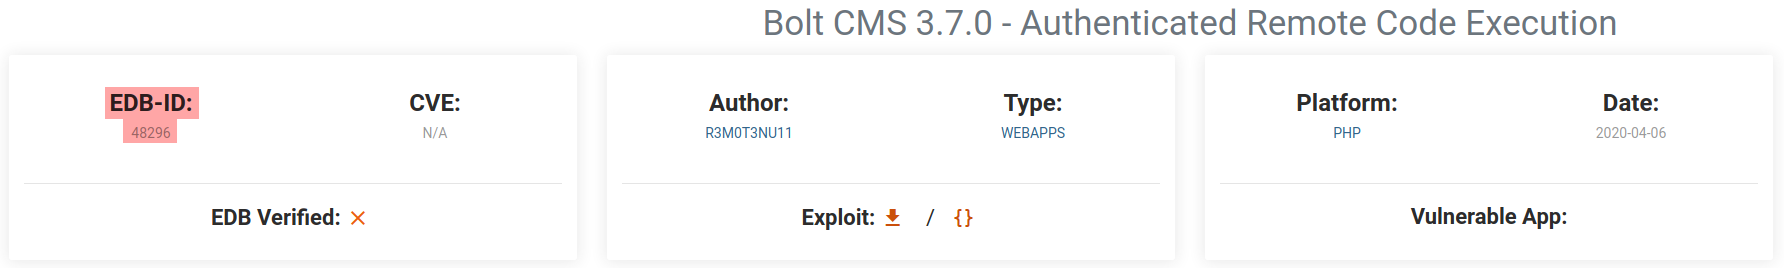
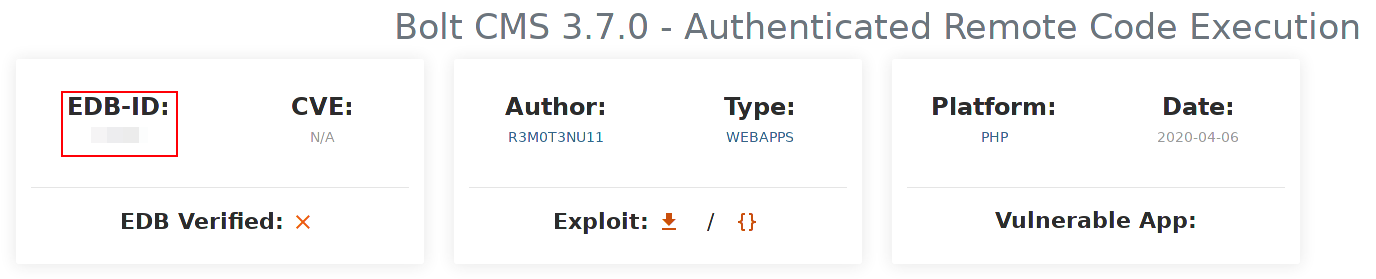
REDUCTE some flags and answers to allow  upload to THM

diff --git a/_posts/2021-01-04-Bolt.md b/_posts/2021-01-04-Bolt.md
@@ -86,15 +86,15 @@ Not shown: 65532 closed ports
 PORT     STATE SERVICE VERSION
 22/tcp   open  ssh     OpenSSH 7.6p1 Ubuntu 4ubuntu0.3 (Ubuntu Linux; protocol 2.0)
 80/tcp   open  http    Apache httpd 2.4.29 ((Ubuntu))
-8000/tcp open  http    (PHP 7.2.32-1)
+[REDUCTED]/tcp open  http    (PHP 7.2.32-1)
 ...
 No exact OS matches for host (If you know what OS is running on it, see https://nmap.org/submit/ ).
 ...
 ```
 
-According nmap, there is a website enabled on port 80 and 8000. We can use Firefox to check both websites on port 80 and 8000:
+According nmap, there is a website enabled on port 80 and [REDUCTED]. We can use Firefox to check both websites on port 80 and [REDUCTED]:
 * The website on port 80 is a default Apache page. nothing to we can use.
-* The website on port 8000 in the other hand seems intresting as it contains some information. At the buttom of the web page we can find this is Bolt CMS (Content Managment System):
+* The website on port [REDUCTED] in the other hand seems intresting as it contains some information. At the buttom of the web page we can find this is Bolt CMS (Content Managment System):
 ![Bolt-built_with](/assets/img/posts/Bolt/Bolt-built_with.png){: .normal}
 
 There are two entries in the homepage. One is a "Message for IT department" where we can find a clear text password and potential username:
@@ -108,8 +108,8 @@ The second one clearly stating the username:
 I'm not familiar with Bolt CMS. Using Google we can find the path for Bolt CMS login page:
 ![cms_login](/assets/img/posts/Bolt/Bolt-cms_login.png){: .normal}
 
-Using the new information we have, we'll change path to the login page http://10.10.255.222:8000/bolt/ and try to login with the credentials we've found.
-**Success**, the combination of *bolt:boltadmin123* (username:password) worked. We now have access to the website admin interface.
+Using the new information we have, we'll change path to the login page http://10.10.255.222:REDUCTED/bolt/ and try to login with the credentials we've found.
+**Success**, the combination of username and password worked. We now have access to the website admin interface.
 
 
 # Privilege Escalation
@@ -125,17 +125,17 @@ We can use metasploit to find that exploit path.
 
 > Before using metasploit, you might need to update it using `apt update; apt install metasploit-framework` command.
 
-Now lunch `msconsole` and search for the EDB-ID (48296):
+Now lunch `msconsole` and search for the EDB-ID [REDUCTED]:
 
 ```console
-msf6 > search 48296
+msf6 > search [REDUCTED]
 
 Matching Modules
 ================
 
    #  Name                                        Disclosure Date  Rank       Check  Description
    -  ----                                        ---------------  ----       -----  -----------
-   0  exploit/unix/webapp/bolt_authenticated_rce  2020-05-07       excellent  Yes    Bolt CMS 3.7.0 - Authenticated Remote Code Execution
+   0  exploit/unix/webapp/[REDUCTED]  2020-05-07       excellent  Yes    Bolt CMS 3.7.0 - Authenticated Remote Code Execution
 
 
 Interact with a module by name or index. For example info 0, use 0 or use exploit/unix/webapp/bolt_authenticated_rce
@@ -170,7 +170,7 @@ Now let's search for that flag using `find / -type f -name 'flag.txt' &2>/dev/nu
 The file is found it in `/home/` path. print it to screen using `cat`:
 ```console
 $ cat /home/flag.txt
-THM{wh0_d035nt_l0ve5_b0l7_r1gh7?}
+[REDUCTED]
 ```
 
 

diff --git a/_posts/2021-01-05-Kenobi.md b/_posts/2021-01-05-Kenobi.md
@@ -76,8 +76,6 @@ Service Info: Host: KENOBI; OSs: Unix, Linux; CPE: cpe:/o:linux:linux_kernel
 ...
 ```
 
-Somehow, the answer to TryHackMe question regarding total open ports is **7**. Not sure how we found more :/
-
 ## SMB/SAMBA
 We found active [Samba](https://en.wikipedia.org/wiki/Samba_(software)) services on both port 139 and 445. Using the suggested command in TryHackMe we can enumerate the shares:
 
@@ -122,13 +120,11 @@ Host script results:
 Nmap done: 1 IP address (1 host up) scanned in 13.33 seconds
 ```
 
-Total of 3 shares found.
-
 Now we'll use [smbclient](https://www.samba.org/samba/docs/current/man-html/smbclient.1.html) to inspect the shares using `anonymous` user:
 `smbclient //10.10.214.193/anonymous` (leave WORKGROUP empty). 
 We're greeted with a command prompt.
 
-Using `ls` command we can list directory files (use `help` command for additional commands) and find the `log.txt` file. using `get log.txt` command we can download it to our machine and
+Using `ls` command we can list directory files (use `help` command for additional commands) and find the [REDUCTED] file. using `get [REDUCTED]` command we can download it to our machine and
 > You can recursively download the SMB share too - use `smbget -R smb://<ip>/anonymous` and submit empty username and password.
 
 ## RPC / RPCBIND
@@ -230,7 +226,7 @@ Now we only need to retrieve the flag file from Kenobie's home directory:
 
 ```console
 $ cat /home/kenobi/user.txt 
-d0b0f3f53b6caa532a83915e19224899
+[REDUCTED]
 ```
 
 
@@ -297,7 +293,7 @@ Now as root we can access the flag:
 
 ```console
 cat /root/root.txt
-177b3cd8562289f37382721c28381f02
+[REDUCTED]
 ```
 
 

diff --git a/_posts/2021-01-03-Sumo1.md b/_posts/2021-01-03-Sumo1.md
@@ -355,7 +355,7 @@ Now we can execute it, providing "localhost" parameter as this is the host we wa
 [`whoami`](https://en.wikipedia.org/wiki/Whoami) command verifies we now have root access. Last step is to get the flag from `/root` path:
 ```console
 $ cat /root/root.txt
-{Sum0-SunCSR-2020_r001}
+[REDUCTED]
 ```
 
 
